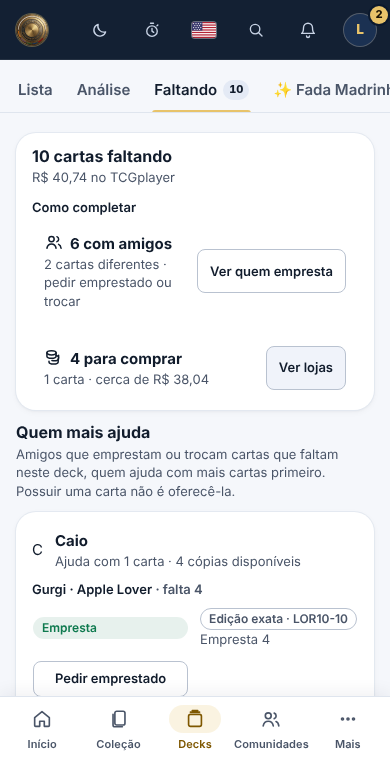
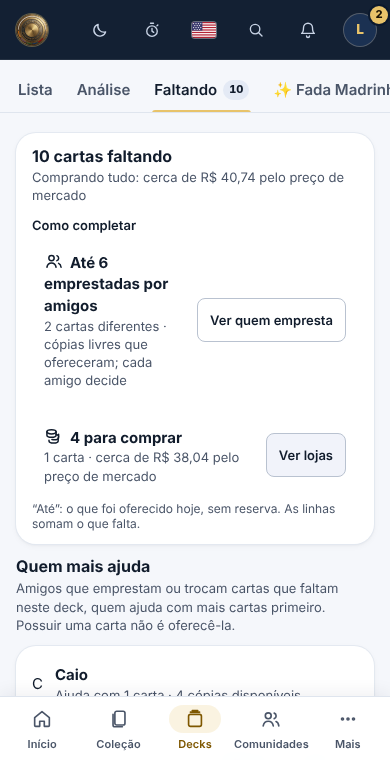
fix(decks): Como completar conta só cópias oferecidas; textos e custos sem exagero
Revisão do Conselho (#246):
- Cada carta divide as cópias que faltam pelo que foi de fato oferecido, nesta ordem:
  empréstimo (por amigo, o maior entre as cópias livres e o anúncio "Empresto",
  sem somar os dois), troca, venda no Mural, e o resto para comprar. "Possui" (tem e
  não ofereceu) não conta. Um amigo com 1 livre de 4 cobre 1, não a carta inteira.
- Linhas "Até N emprestadas por amigos", "Até N por troca", "Até N no Mural" e
  "N para comprar", com nota: o que foi oferecido hoje, sem reserva; as linhas somam
  o que falta. A carta mostra a divisão quando é parcial.
- Troca não é chamada de gratuita: "Empréstimo não tem custo; troca pede cartas suas
  em troca. Cada amigo decide."
- Custo: só das cópias a comprar, pelo preço de mercado, dizendo quantas cartas não
  têm preço; o total do topo vira "Comprando tudo: cerca de …".

Testes: decks.spec.mjs (+1 caso parcial; 2 ajustados). Capturas refeitas.

Claude-Session: https://claude.ai/code/session_01FVbTkUiCCiwGnRgKq7JAgu

diff --git a/site/decks/index.html b/site/decks/index.html
@@ -517,11 +517,16 @@ const CARD_INDEX = {"generated_at":"2026-10-19T12:50:22Z","sets":[{"code":"D100"
     "lowest MYP Cards listing ({d}); without one, {s}": "menor anúncio na MYP Cards ({d}); sem anúncio lá, {s}", "{n} can come from friends": "{n} podem vir de amigos", "{n} can come from friends_1": "1 pode vir de amigos",
     "You have every card for this deck.": "Você tem todas as cartas deste deck.", "Copies lent to friends still count as yours.": "Cópias emprestadas a amigos contam como suas.",
     "Lends": "Empresta", "Trades": "Troca", "Has it": "Possui", "{who} offers it in trade": "{who} oferece em troca", "{n} on the board": "{n} no Mural", "Profile of {who}": "Perfil de {who}",
-    "How to complete it": "Como completar", "With friends": "Com amigos", "Friends lend or trade these. Ask first: it's free.": "Amigos emprestam ou trocam estas. Peça primeiro: é de graça.",
-    "On the board": "No Mural", "Someone sells these on the board.": "Alguém vende estas no Mural.", "To buy": "Para comprar", "No friend has these yet. The stores open in another tab.": "Nenhum amigo tem estas ainda. As lojas abrem em outra aba.",
-    "{n} card": "{n} carta", "{n} with friends": "{n} com amigos", "1 card · ask to borrow or trade": "1 carta · pedir emprestado ou trocar", "{n} different cards · ask to borrow or trade": "{n} cartas diferentes · pedir emprestado ou trocar",
-    "See who lends": "Ver quem empresta", "See cards": "Ver cartas", "{n} on the board": "{n} no Mural", "1 card · someone sells it": "1 carta · alguém vende", "{n} different cards · someone sells them": "{n} cartas diferentes · alguém vende",
-    "{n} to buy": "{n} para comprar", "1 card": "1 carta", "{n} different cards": "{n} cartas diferentes", "about {v}": "cerca de {v}", "See stores": "Ver lojas",
+    "How to complete it": "Como completar", "Buying all of it: about {v} at market price": "Comprando tudo: cerca de {v} pelo preço de mercado", "Friends offered": "Amigos ofereceram", "Lending costs nothing; a trade asks for cards of yours in return. Each friend decides.": "Empréstimo não tem custo; troca pede cartas suas em troca. Cada amigo decide.",
+    "On the board": "No Mural", "For sale on the board, at the price in the listing.": "À venda no Mural, pelo preço do anúncio.", "To buy": "Para comprar", "No one offered these. The stores open in another tab.": "Ninguém ofereceu estas. As lojas abrem em outra aba.",
+    "Up to {n} lent by friends": "Até {n} emprestadas por amigos", "Up to 1 lent by a friend": "Até 1 emprestada por amigo", "free copies they offered; each friend decides": "cópias livres que ofereceram; cada amigo decide", "Up to {n} by trade": "Até {n} por troca", "you give cards in return": "você dá cartas em troca",
+    "Up to {n} on the board": "Até {n} no Mural", "for sale, at the listing's price": "à venda, pelo preço do anúncio", "about {v} at market price": "cerca de {v} pelo preço de mercado", "1 card with no price": "1 carta sem preço", "{n} cards with no price": "{n} cartas sem preço",
+    "“Up to”: what was offered today, not reserved. The rows add up to what is missing.": "“Até”: o que foi oferecido hoje, sem reserva. As linhas somam o que falta.",
+    "up to {n} lent": "até {n} emprestadas", "up to 1 lent": "até 1 emprestada", "up to {n} by trade": "até {n} por troca", "up to {n} on the board": "até {n} no Mural", 
+    
+    "{n} card": "{n} carta", 
+    "See who lends": "Ver quem empresta", "See cards": "Ver cartas", 
+    "{n} to buy": "{n} para comprar", "1 card": "1 carta", "{n} different cards": "{n} cartas diferentes",  "See stores": "Ver lojas",
     "{who} lends": "{who} empresta", "{n} free": "{n} livres", "{n} free_1": "1 livre", "Ask to borrow": "Pedir emprestado", "{who} has it": "{who} tem", "{n} in their collection · they decide": "{n} na coleção · a pessoa decide se empresta", "Show on my public profile": "Mostrar no meu perfil público", "public": "público", "People who aren't your friends see it on your profile and in the Lore Counter, when your profile is public. Friends already see all your decks.": "Quem não é seu amigo vê no seu perfil e no Lore Counter, quando seu perfil é público. Amigos já veem todos os seus decks.", "Asked": "Pedido enviado", "For the deck {d}": "Para o deck {d}", "Request sent. You'll see the answer in Trades.": "Pedido enviado. A resposta aparece em Trocas.", "Too many requests today. Try tomorrow.": "Muitos pedidos hoje. Tente amanhã.", "{who} sells on the board": "{who} vende no Mural", "{v} each": "{v} cada", "See listing": "Ver anúncio",
     "None of your friends has it": "Ninguém dos seus amigos tem",
     "In their collection · they did not offer to lend": "Na coleção · não ofereceu empréstimo", "This friend did not offer to lend this card.": "Este amigo não ofereceu esta carta para empréstimo.",
@@ -1602,11 +1607,9 @@ const CARD_INDEX = {"generated_at":"2026-10-19T12:50:22Z","sets":[{"code":"D100"
   function missingTab(d, m) {
     if (!m.known.length) return emptyBox("decks", Tx("This deck is empty."), Tx("Tap Edit list to add cards."));
     if (!m.missing.length) return emptyBox("collection", Tx("You have every card for this deck."), Tx("Copies lent to friends still count as yours."));
-    let fromFriends = 0;
     const groups = { friends: [], board: [], buy: [] };
     m.missing.forEach(({ c, n }) => {
       const { lend, sell, trade } = offersFor(c), [a, b] = split(c.name), p = priceOf(c);
-      if (lend.length) fromFriends += Math.min(n, lend.reduce((s, l) => s + l.qty, 0));
       const who = (u) => names.get(u) || "—";
       const q = encodeURIComponent(a);
       const offers = [
@@ -1615,36 +1618,53 @@ const CARD_INDEX = {"generated_at":"2026-10-19T12:50:22Z","sets":[{"code":"D100"
         ...sell.slice(0, 3).map((l) => `<div class="list-row flat two" style="min-height:52px"><span class="t"><span>${esc(Tx("{who} sells on the board", { who: who(l.user_id) }))}</span><span class="meta">${l.price_brl != null ? esc(Tx("{v} each", { v: money(+l.price_brl) })) : ""}</span></span><a class="btn small" href="../trades/?tab=board&q=${q}">${Tx("See listing")}</a></div>`),
       ];
       const fl = friendsLend(c);
-      if (fl.length) fromFriends += Math.min(n, fl.filter(lends).reduce((s2, x) => s2 + x.free, 0));
       // Possui: only that the friend has it (printing named), no quantity, no request. Empresta: explicit "empresta"
       // and free copies, with the quantity and the request.
       offers.unshift(...fl.slice(0, 3).map((x) => { const k = `${x.user}|${x.card_id}`, asked = lendAsked.has(k), ok = lends(x);
         const ed = x.card_id === c.id ? "" : ` · ${Tx("Other printing · {id}", { id: x.card_id })}`;
         return `<div class="list-row flat two" style="min-height:52px" data-testid="friend-has" data-state="${ok ? "lend" : "has"}"><span class="t"><span class="fwho">${friendFace(x.user, x.name)}${friendTag(ok ? "lend" : "has")}${esc(Tx("{who} has it", { who: x.name || "—" }))}</span><span class="meta">${esc((ok ? Tx("{n} free", { n: x.free }) : Tx("In their collection · they did not offer to lend")) + ed)}</span></span>${!ok ? "" : asked ? `<a class="btn small ghost" href="../trades/">${Tx("Asked")}</a>` : `<button type="button" class="btn small" data-borrow="${esc(x.user)}" data-bcard="${esc(x.card_id)}" data-bq="${Math.min(n, x.free)}">${Tx("Ask to borrow")}</button>`}</div>`; }));
-      const viaFriends = lend.length || trade.length || fl.some(lends), where = viaFriends ? "friends" : sell.length ? "board" : "buy";
+      // Conselho (#246): count only copies actually offered, never a whole card because one friend has one.
+      // Lending: per friend, the larger of the free copies they offer and their "Empresto" post (not both: the same copies).
+      // "Possui" (has it, did not offer) counts nothing. Each source takes what is still missing after the one before.
+      const lendBy1 = new Map();
+      for (const x of fl) if (lends(x) && friends.has(x.user)) lendBy1.set(x.user, Math.max(lendBy1.get(x.user) || 0, +x.free || 0));
+      for (const l of lend) lendBy1.set(l.user_id, Math.max(lendBy1.get(l.user_id) || 0, +l.qty || 0));
+      const take = (left, offered) => Math.max(0, Math.min(left, offered));
+      const sp = { lend: take(n, [...lendBy1.values()].reduce((t, q) => t + q, 0)) };
+      sp.trade = take(n - sp.lend, trade.reduce((t, l) => t + (+l.qty || 0), 0));
+      sp.board = take(n - sp.lend - sp.trade, sell.reduce((t, l) => t + (+l.qty || 0), 0));
+      sp.buy = n - sp.lend - sp.trade - sp.board;
+      const where = sp.lend + sp.trade ? "friends" : sp.board ? "board" : "buy";
+      const splitLine = sp.buy === n ? "" : [sp.lend ? Tx(sp.lend === 1 ? "up to 1 lent" : "up to {n} lent", { n: sp.lend }) : "", sp.trade ? Tx("up to {n} by trade", { n: sp.trade }) : "", sp.board ? Tx("up to {n} on the board", { n: sp.board }) : "", sp.buy ? Tx("{n} to buy", { n: sp.buy }) : ""].filter(Boolean).join(" · ");
       if (!lend.length && !fl.length && !sell.length && !trade.length) offers.push(`<div class="list-row flat two" style="min-height:44px"><span class="t"><span class="muted" style="font-weight:400">${Tx("None of your friends has it")}</span></span></div>`);
       // buy it: always offered, after friends and the board — the stores open in a new tab, nothing is shared with them
       offers.push(buyLinks(c, n));
-      groups[where].push({ n, value: p != null ? p * n : null, html: `<section class="card miss" data-miss="${esc(c.id)}" data-where="${where}"><div class="row" style="flex-wrap:nowrap;align-items:flex-start;gap:var(--sp-3)">${thumb(c, "md")}<div class="grow" style="min-width:0">
+      groups[where].push({ n, sp, price: p, html: `<section class="card miss" data-miss="${esc(c.id)}" data-where="${where}"><div class="row" style="flex-wrap:nowrap;align-items:flex-start;gap:var(--sp-3)">${thumb(c, "md")}<div class="grow" style="min-width:0">
         <div class="row between" style="flex-wrap:nowrap"><b>${esc(a)}${b ? ` · ${esc(b)}` : ""}</b><span class="tag warn">${esc(Tx("missing {n}", { n }))}</span></div>
         <div class="small muted" style="margin-top:2px">${esc(fromMyp(c) ? "MYP Cards" : priceSrc)} <span class="money">${p != null ? esc(money(p)) : "–"}</span></div>
+        ${splitLine ? `<div class="small" style="margin-top:2px" data-testid="miss-split">${esc(splitLine)}</div>` : ""}
         <div class="list tight divided" style="margin-top:var(--sp-2)">${offers.join("")}</div></div></div></section>` });
     });
-    const count = (g) => g.reduce((t, x) => t + x.n, 0), cardsN = (g) => g.length;
-    const buyValue = groups.buy.reduce((t, x) => t + (x.value || 0), 0);
-    const GROUP = { friends: ["With friends", "Friends lend or trade these. Ask first: it's free."], board: ["On the board", "Someone sells these on the board."], buy: ["To buy", "No friend has these yet. The stores open in another tab."] };
-    const cards = ["friends", "board", "buy"].filter((k) => groups[k].length).map((k) => `<h3 class="miss-group" id="miss-${k}" data-testid="miss-group-${k}">${esc(Tx(GROUP[k][0]))} <span class="muted small">· ${esc(Tx(cardsN(groups[k]) === 1 ? "{n} card" : "{n} cards", { n: cardsN(groups[k]) }))}</span><span class="small muted" style="display:block;font-weight:400">${esc(Tx(GROUP[k][1]))}</span></h3>${groups[k].map((x) => x.html).join("")}`).join("");
-    // one row per way of getting the cards, in the order that costs least: friends, the board, the stores
+    const all = [...groups.friends, ...groups.board, ...groups.buy], sum = (k) => all.reduce((t, x) => t + x.sp[k], 0), cardsWith = (k) => all.filter((x) => x.sp[k] > 0).length;
+    // the cost: only the copies left to buy, at the market price; copies with no price are said, not counted as zero
+    const toBuy = all.filter((x) => x.sp.buy > 0), buyValue = toBuy.reduce((t, x) => t + (x.price != null ? x.price * x.sp.buy : 0), 0), noPrice = toBuy.filter((x) => x.price == null).length;
+    const GROUP = { friends: ["Friends offered", "Lending costs nothing; a trade asks for cards of yours in return. Each friend decides."], board: ["On the board", "For sale on the board, at the price in the listing."], buy: ["To buy", "No one offered these. The stores open in another tab."] };
+    const cards = ["friends", "board", "buy"].filter((k) => groups[k].length).map((k) => `<h3 class="miss-group" id="miss-${k}" data-testid="miss-group-${k}">${esc(Tx(GROUP[k][0]))} <span class="muted small">· ${esc(Tx(groups[k].length === 1 ? "{n} card" : "{n} cards", { n: groups[k].length }))}</span><span class="small muted" style="display:block;font-weight:400">${esc(Tx(GROUP[k][1]))}</span></h3>${groups[k].map((x) => x.html).join("")}`).join("");
+    // one row per source, in the order that costs least; every row counts copies, and together they add up to the heading
     const planRow = (k, ic, title, sub, btn, href) => `<div class="plan-row card inset" style="padding:var(--sp-2) var(--sp-3)" data-testid="plan-${k}"><span class="t" style="min-width:0"><b><i class="ic i-${ic}" style="vertical-align:-3px;margin-right:6px"></i>${esc(title)}</b><span class="small muted" style="display:block">${esc(sub)}</span></span><a class="btn small" href="${href}" data-jump>${esc(btn)}</a></div>`;
+    const cardsTx = (n) => Tx(n === 1 ? "1 card" : "{n} different cards", { n });
     const plan = [
-      groups.friends.length ? planRow("friends", "users", Tx("{n} with friends", { n: count(groups.friends) }), Tx(cardsN(groups.friends) === 1 ? "1 card · ask to borrow or trade" : "{n} different cards · ask to borrow or trade", { n: cardsN(groups.friends) }), Tx(whoHelps(m) ? "See who lends" : "See cards"), whoHelps(m) ? "#who-helps-anchor" : "#miss-friends") : "",
-      groups.board.length ? planRow("board", "trades", Tx("{n} on the board", { n: count(groups.board) }), Tx(cardsN(groups.board) === 1 ? "1 card · someone sells it" : "{n} different cards · someone sells them", { n: cardsN(groups.board) }), Tx("See cards"), "#miss-board") : "",
-      groups.buy.length ? planRow("buy", "coins", Tx("{n} to buy", { n: count(groups.buy) }), [Tx(cardsN(groups.buy) === 1 ? "1 card" : "{n} different cards", { n: cardsN(groups.buy) }), havePrices() && buyValue ? Tx("about {v}", { v: money(buyValue) }) : ""].filter(Boolean).join(" · "), Tx("See stores"), "#miss-buy") : "",
+      sum("lend") ? planRow("lend", "users", Tx(sum("lend") === 1 ? "Up to 1 lent by a friend" : "Up to {n} lent by friends", { n: sum("lend") }), `${cardsTx(cardsWith("lend"))} · ${Tx("free copies they offered; each friend decides")}`, Tx(whoHelps(m) ? "See who lends" : "See cards"), whoHelps(m) ? "#who-helps-anchor" : "#miss-friends") : "",
+      sum("trade") ? planRow("trade", "trades", Tx("Up to {n} by trade", { n: sum("trade") }), `${cardsTx(cardsWith("trade"))} · ${Tx("you give cards in return")}`, Tx("See cards"), "#miss-friends") : "",
+      sum("board") ? planRow("board", "board", Tx("Up to {n} on the board", { n: sum("board") }), `${cardsTx(cardsWith("board"))} · ${Tx("for sale, at the listing's price")}`, Tx("See cards"), "#miss-board") : "",
+      sum("buy") ? planRow("buy", "coins", Tx("{n} to buy", { n: sum("buy") }), [cardsTx(cardsWith("buy")), havePrices() && buyValue ? Tx("about {v} at market price", { v: money(buyValue) }) : "", noPrice ? Tx(noPrice === 1 ? "1 card with no price" : "{n} cards with no price", { n: noPrice }) : ""].filter(Boolean).join(" · "), Tx("See stores"), "#miss-buy") : "",
     ].join("");
+    const offeredNote = sum("lend") + sum("trade") + sum("board") ? `<p class="micro muted" style="margin:0" data-testid="plan-note">${esc(Tx("“Up to”: what was offered today, not reserved. The rows add up to what is missing."))}</p>` : "";
     const head = [Tx(m.missingN === 1 ? "{n} card missing" : "{n} cards missing", { n: m.missingN })];
-    const sub = [!havePrices() ? "" : BR ? Tx("{v} estimated (MYP Cards, else TCGplayer)", { v: money(m.missingValue) }) : Tx("{v} at {s}", { v: money(m.missingValue), s: priceSrc }), ""].filter(Boolean).join(" · ");   // the plan rows below add up to the heading
+    // the whole-missing value is what buying everything would cost; the plan says what is actually left to buy
+    const sub = !havePrices() ? "" : Tx("Buying all of it: about {v} at market price", { v: money(m.missingValue) });
     return `<section class="card" data-testid="missing-summary" style="padding:var(--sp-3) var(--sp-4)"><b style="font-size:var(--fs-h3, 1.125rem)">${esc(head[0])}</b><span class="small muted" style="display:block">${esc(sub)}</span>
-        <div class="plan-rows" data-testid="completion-plan"><span class="small" style="font-weight:600">${Tx("How to complete it")}</span>${plan}</div></section>
+        <div class="plan-rows" data-testid="completion-plan"><span class="small" style="font-weight:600">${Tx("How to complete it")}</span>${plan}${offeredNote}</div></section>
       <span id="who-helps-anchor"></span>${whoHelps(m)}
       <div class="stack">${cards}</div>
       <div class="card inset miss-export" data-testid="miss-export" style="margin:var(--sp-3) 0;padding:var(--sp-3)"><div class="row between" style="gap:var(--sp-2);flex-wrap:wrap">

diff --git a/src/site/decks/decks.template.html b/src/site/decks/decks.template.html
@@ -179,11 +179,16 @@ textarea.paste { width: 100%; min-height: 200px; font: inherit; font-size: var(-
     "lowest MYP Cards listing ({d}); without one, {s}": "menor anúncio na MYP Cards ({d}); sem anúncio lá, {s}", "{n} can come from friends": "{n} podem vir de amigos", "{n} can come from friends_1": "1 pode vir de amigos",
     "You have every card for this deck.": "Você tem todas as cartas deste deck.", "Copies lent to friends still count as yours.": "Cópias emprestadas a amigos contam como suas.",
     "Lends": "Empresta", "Trades": "Troca", "Has it": "Possui", "{who} offers it in trade": "{who} oferece em troca", "{n} on the board": "{n} no Mural", "Profile of {who}": "Perfil de {who}",
-    "How to complete it": "Como completar", "With friends": "Com amigos", "Friends lend or trade these. Ask first: it's free.": "Amigos emprestam ou trocam estas. Peça primeiro: é de graça.",
-    "On the board": "No Mural", "Someone sells these on the board.": "Alguém vende estas no Mural.", "To buy": "Para comprar", "No friend has these yet. The stores open in another tab.": "Nenhum amigo tem estas ainda. As lojas abrem em outra aba.",
-    "{n} card": "{n} carta", "{n} with friends": "{n} com amigos", "1 card · ask to borrow or trade": "1 carta · pedir emprestado ou trocar", "{n} different cards · ask to borrow or trade": "{n} cartas diferentes · pedir emprestado ou trocar",
-    "See who lends": "Ver quem empresta", "See cards": "Ver cartas", "{n} on the board": "{n} no Mural", "1 card · someone sells it": "1 carta · alguém vende", "{n} different cards · someone sells them": "{n} cartas diferentes · alguém vende",
-    "{n} to buy": "{n} para comprar", "1 card": "1 carta", "{n} different cards": "{n} cartas diferentes", "about {v}": "cerca de {v}", "See stores": "Ver lojas",
+    "How to complete it": "Como completar", "Buying all of it: about {v} at market price": "Comprando tudo: cerca de {v} pelo preço de mercado", "Friends offered": "Amigos ofereceram", "Lending costs nothing; a trade asks for cards of yours in return. Each friend decides.": "Empréstimo não tem custo; troca pede cartas suas em troca. Cada amigo decide.",
+    "On the board": "No Mural", "For sale on the board, at the price in the listing.": "À venda no Mural, pelo preço do anúncio.", "To buy": "Para comprar", "No one offered these. The stores open in another tab.": "Ninguém ofereceu estas. As lojas abrem em outra aba.",
+    "Up to {n} lent by friends": "Até {n} emprestadas por amigos", "Up to 1 lent by a friend": "Até 1 emprestada por amigo", "free copies they offered; each friend decides": "cópias livres que ofereceram; cada amigo decide", "Up to {n} by trade": "Até {n} por troca", "you give cards in return": "você dá cartas em troca",
+    "Up to {n} on the board": "Até {n} no Mural", "for sale, at the listing's price": "à venda, pelo preço do anúncio", "about {v} at market price": "cerca de {v} pelo preço de mercado", "1 card with no price": "1 carta sem preço", "{n} cards with no price": "{n} cartas sem preço",
+    "“Up to”: what was offered today, not reserved. The rows add up to what is missing.": "“Até”: o que foi oferecido hoje, sem reserva. As linhas somam o que falta.",
+    "up to {n} lent": "até {n} emprestadas", "up to 1 lent": "até 1 emprestada", "up to {n} by trade": "até {n} por troca", "up to {n} on the board": "até {n} no Mural", 
+    
+    "{n} card": "{n} carta", 
+    "See who lends": "Ver quem empresta", "See cards": "Ver cartas", 
+    "{n} to buy": "{n} para comprar", "1 card": "1 carta", "{n} different cards": "{n} cartas diferentes",  "See stores": "Ver lojas",
     "{who} lends": "{who} empresta", "{n} free": "{n} livres", "{n} free_1": "1 livre", "Ask to borrow": "Pedir emprestado", "{who} has it": "{who} tem", "{n} in their collection · they decide": "{n} na coleção · a pessoa decide se empresta", "Show on my public profile": "Mostrar no meu perfil público", "public": "público", "People who aren't your friends see it on your profile and in the Lore Counter, when your profile is public. Friends already see all your decks.": "Quem não é seu amigo vê no seu perfil e no Lore Counter, quando seu perfil é público. Amigos já veem todos os seus decks.", "Asked": "Pedido enviado", "For the deck {d}": "Para o deck {d}", "Request sent. You'll see the answer in Trades.": "Pedido enviado. A resposta aparece em Trocas.", "Too many requests today. Try tomorrow.": "Muitos pedidos hoje. Tente amanhã.", "{who} sells on the board": "{who} vende no Mural", "{v} each": "{v} cada", "See listing": "Ver anúncio",
     "None of your friends has it": "Ninguém dos seus amigos tem",
     "In their collection · they did not offer to lend": "Na coleção · não ofereceu empréstimo", "This friend did not offer to lend this card.": "Este amigo não ofereceu esta carta para empréstimo.",
@@ -1199,11 +1204,9 @@ textarea.paste { width: 100%; min-height: 200px; font: inherit; font-size: var(-
   function missingTab(d, m) {
     if (!m.known.length) return emptyBox("decks", Tx("This deck is empty."), Tx("Tap Edit list to add cards."));
     if (!m.missing.length) return emptyBox("collection", Tx("You have every card for this deck."), Tx("Copies lent to friends still count as yours."));
-    let fromFriends = 0;
     const groups = { friends: [], board: [], buy: [] };
     m.missing.forEach(({ c, n }) => {
       const { lend, sell, trade } = offersFor(c), [a, b] = split(c.name), p = priceOf(c);
-      if (lend.length) fromFriends += Math.min(n, lend.reduce((s, l) => s + l.qty, 0));
       const who = (u) => names.get(u) || "—";
       const q = encodeURIComponent(a);
       const offers = [
@@ -1212,36 +1215,53 @@ textarea.paste { width: 100%; min-height: 200px; font: inherit; font-size: var(-
         ...sell.slice(0, 3).map((l) => `<div class="list-row flat two" style="min-height:52px"><span class="t"><span>${esc(Tx("{who} sells on the board", { who: who(l.user_id) }))}</span><span class="meta">${l.price_brl != null ? esc(Tx("{v} each", { v: money(+l.price_brl) })) : ""}</span></span><a class="btn small" href="../trades/?tab=board&q=${q}">${Tx("See listing")}</a></div>`),
       ];
       const fl = friendsLend(c);
-      if (fl.length) fromFriends += Math.min(n, fl.filter(lends).reduce((s2, x) => s2 + x.free, 0));
       // Possui: only that the friend has it (printing named), no quantity, no request. Empresta: explicit "empresta"
       // and free copies, with the quantity and the request.
       offers.unshift(...fl.slice(0, 3).map((x) => { const k = `${x.user}|${x.card_id}`, asked = lendAsked.has(k), ok = lends(x);
         const ed = x.card_id === c.id ? "" : ` · ${Tx("Other printing · {id}", { id: x.card_id })}`;
         return `<div class="list-row flat two" style="min-height:52px" data-testid="friend-has" data-state="${ok ? "lend" : "has"}"><span class="t"><span class="fwho">${friendFace(x.user, x.name)}${friendTag(ok ? "lend" : "has")}${esc(Tx("{who} has it", { who: x.name || "—" }))}</span><span class="meta">${esc((ok ? Tx("{n} free", { n: x.free }) : Tx("In their collection · they did not offer to lend")) + ed)}</span></span>${!ok ? "" : asked ? `<a class="btn small ghost" href="../trades/">${Tx("Asked")}</a>` : `<button type="button" class="btn small" data-borrow="${esc(x.user)}" data-bcard="${esc(x.card_id)}" data-bq="${Math.min(n, x.free)}">${Tx("Ask to borrow")}</button>`}</div>`; }));
-      const viaFriends = lend.length || trade.length || fl.some(lends), where = viaFriends ? "friends" : sell.length ? "board" : "buy";
+      // Conselho (#246): count only copies actually offered, never a whole card because one friend has one.
+      // Lending: per friend, the larger of the free copies they offer and their "Empresto" post (not both: the same copies).
+      // "Possui" (has it, did not offer) counts nothing. Each source takes what is still missing after the one before.
+      const lendBy1 = new Map();
+      for (const x of fl) if (lends(x) && friends.has(x.user)) lendBy1.set(x.user, Math.max(lendBy1.get(x.user) || 0, +x.free || 0));
+      for (const l of lend) lendBy1.set(l.user_id, Math.max(lendBy1.get(l.user_id) || 0, +l.qty || 0));
+      const take = (left, offered) => Math.max(0, Math.min(left, offered));
+      const sp = { lend: take(n, [...lendBy1.values()].reduce((t, q) => t + q, 0)) };
+      sp.trade = take(n - sp.lend, trade.reduce((t, l) => t + (+l.qty || 0), 0));
+      sp.board = take(n - sp.lend - sp.trade, sell.reduce((t, l) => t + (+l.qty || 0), 0));
+      sp.buy = n - sp.lend - sp.trade - sp.board;
+      const where = sp.lend + sp.trade ? "friends" : sp.board ? "board" : "buy";
+      const splitLine = sp.buy === n ? "" : [sp.lend ? Tx(sp.lend === 1 ? "up to 1 lent" : "up to {n} lent", { n: sp.lend }) : "", sp.trade ? Tx("up to {n} by trade", { n: sp.trade }) : "", sp.board ? Tx("up to {n} on the board", { n: sp.board }) : "", sp.buy ? Tx("{n} to buy", { n: sp.buy }) : ""].filter(Boolean).join(" · ");
       if (!lend.length && !fl.length && !sell.length && !trade.length) offers.push(`<div class="list-row flat two" style="min-height:44px"><span class="t"><span class="muted" style="font-weight:400">${Tx("None of your friends has it")}</span></span></div>`);
       // buy it: always offered, after friends and the board — the stores open in a new tab, nothing is shared with them
       offers.push(buyLinks(c, n));
-      groups[where].push({ n, value: p != null ? p * n : null, html: `<section class="card miss" data-miss="${esc(c.id)}" data-where="${where}"><div class="row" style="flex-wrap:nowrap;align-items:flex-start;gap:var(--sp-3)">${thumb(c, "md")}<div class="grow" style="min-width:0">
+      groups[where].push({ n, sp, price: p, html: `<section class="card miss" data-miss="${esc(c.id)}" data-where="${where}"><div class="row" style="flex-wrap:nowrap;align-items:flex-start;gap:var(--sp-3)">${thumb(c, "md")}<div class="grow" style="min-width:0">
         <div class="row between" style="flex-wrap:nowrap"><b>${esc(a)}${b ? ` · ${esc(b)}` : ""}</b><span class="tag warn">${esc(Tx("missing {n}", { n }))}</span></div>
         <div class="small muted" style="margin-top:2px">${esc(fromMyp(c) ? "MYP Cards" : priceSrc)} <span class="money">${p != null ? esc(money(p)) : "–"}</span></div>
+        ${splitLine ? `<div class="small" style="margin-top:2px" data-testid="miss-split">${esc(splitLine)}</div>` : ""}
         <div class="list tight divided" style="margin-top:var(--sp-2)">${offers.join("")}</div></div></div></section>` });
     });
-    const count = (g) => g.reduce((t, x) => t + x.n, 0), cardsN = (g) => g.length;
-    const buyValue = groups.buy.reduce((t, x) => t + (x.value || 0), 0);
-    const GROUP = { friends: ["With friends", "Friends lend or trade these. Ask first: it's free."], board: ["On the board", "Someone sells these on the board."], buy: ["To buy", "No friend has these yet. The stores open in another tab."] };
-    const cards = ["friends", "board", "buy"].filter((k) => groups[k].length).map((k) => `<h3 class="miss-group" id="miss-${k}" data-testid="miss-group-${k}">${esc(Tx(GROUP[k][0]))} <span class="muted small">· ${esc(Tx(cardsN(groups[k]) === 1 ? "{n} card" : "{n} cards", { n: cardsN(groups[k]) }))}</span><span class="small muted" style="display:block;font-weight:400">${esc(Tx(GROUP[k][1]))}</span></h3>${groups[k].map((x) => x.html).join("")}`).join("");
-    // one row per way of getting the cards, in the order that costs least: friends, the board, the stores
+    const all = [...groups.friends, ...groups.board, ...groups.buy], sum = (k) => all.reduce((t, x) => t + x.sp[k], 0), cardsWith = (k) => all.filter((x) => x.sp[k] > 0).length;
+    // the cost: only the copies left to buy, at the market price; copies with no price are said, not counted as zero
+    const toBuy = all.filter((x) => x.sp.buy > 0), buyValue = toBuy.reduce((t, x) => t + (x.price != null ? x.price * x.sp.buy : 0), 0), noPrice = toBuy.filter((x) => x.price == null).length;
+    const GROUP = { friends: ["Friends offered", "Lending costs nothing; a trade asks for cards of yours in return. Each friend decides."], board: ["On the board", "For sale on the board, at the price in the listing."], buy: ["To buy", "No one offered these. The stores open in another tab."] };
+    const cards = ["friends", "board", "buy"].filter((k) => groups[k].length).map((k) => `<h3 class="miss-group" id="miss-${k}" data-testid="miss-group-${k}">${esc(Tx(GROUP[k][0]))} <span class="muted small">· ${esc(Tx(groups[k].length === 1 ? "{n} card" : "{n} cards", { n: groups[k].length }))}</span><span class="small muted" style="display:block;font-weight:400">${esc(Tx(GROUP[k][1]))}</span></h3>${groups[k].map((x) => x.html).join("")}`).join("");
+    // one row per source, in the order that costs least; every row counts copies, and together they add up to the heading
     const planRow = (k, ic, title, sub, btn, href) => `<div class="plan-row card inset" style="padding:var(--sp-2) var(--sp-3)" data-testid="plan-${k}"><span class="t" style="min-width:0"><b><i class="ic i-${ic}" style="vertical-align:-3px;margin-right:6px"></i>${esc(title)}</b><span class="small muted" style="display:block">${esc(sub)}</span></span><a class="btn small" href="${href}" data-jump>${esc(btn)}</a></div>`;
+    const cardsTx = (n) => Tx(n === 1 ? "1 card" : "{n} different cards", { n });
     const plan = [
-      groups.friends.length ? planRow("friends", "users", Tx("{n} with friends", { n: count(groups.friends) }), Tx(cardsN(groups.friends) === 1 ? "1 card · ask to borrow or trade" : "{n} different cards · ask to borrow or trade", { n: cardsN(groups.friends) }), Tx(whoHelps(m) ? "See who lends" : "See cards"), whoHelps(m) ? "#who-helps-anchor" : "#miss-friends") : "",
-      groups.board.length ? planRow("board", "trades", Tx("{n} on the board", { n: count(groups.board) }), Tx(cardsN(groups.board) === 1 ? "1 card · someone sells it" : "{n} different cards · someone sells them", { n: cardsN(groups.board) }), Tx("See cards"), "#miss-board") : "",
-      groups.buy.length ? planRow("buy", "coins", Tx("{n} to buy", { n: count(groups.buy) }), [Tx(cardsN(groups.buy) === 1 ? "1 card" : "{n} different cards", { n: cardsN(groups.buy) }), havePrices() && buyValue ? Tx("about {v}", { v: money(buyValue) }) : ""].filter(Boolean).join(" · "), Tx("See stores"), "#miss-buy") : "",
+      sum("lend") ? planRow("lend", "users", Tx(sum("lend") === 1 ? "Up to 1 lent by a friend" : "Up to {n} lent by friends", { n: sum("lend") }), `${cardsTx(cardsWith("lend"))} · ${Tx("free copies they offered; each friend decides")}`, Tx(whoHelps(m) ? "See who lends" : "See cards"), whoHelps(m) ? "#who-helps-anchor" : "#miss-friends") : "",
+      sum("trade") ? planRow("trade", "trades", Tx("Up to {n} by trade", { n: sum("trade") }), `${cardsTx(cardsWith("trade"))} · ${Tx("you give cards in return")}`, Tx("See cards"), "#miss-friends") : "",
+      sum("board") ? planRow("board", "board", Tx("Up to {n} on the board", { n: sum("board") }), `${cardsTx(cardsWith("board"))} · ${Tx("for sale, at the listing's price")}`, Tx("See cards"), "#miss-board") : "",
+      sum("buy") ? planRow("buy", "coins", Tx("{n} to buy", { n: sum("buy") }), [cardsTx(cardsWith("buy")), havePrices() && buyValue ? Tx("about {v} at market price", { v: money(buyValue) }) : "", noPrice ? Tx(noPrice === 1 ? "1 card with no price" : "{n} cards with no price", { n: noPrice }) : ""].filter(Boolean).join(" · "), Tx("See stores"), "#miss-buy") : "",
     ].join("");
+    const offeredNote = sum("lend") + sum("trade") + sum("board") ? `<p class="micro muted" style="margin:0" data-testid="plan-note">${esc(Tx("“Up to”: what was offered today, not reserved. The rows add up to what is missing."))}</p>` : "";
     const head = [Tx(m.missingN === 1 ? "{n} card missing" : "{n} cards missing", { n: m.missingN })];
-    const sub = [!havePrices() ? "" : BR ? Tx("{v} estimated (MYP Cards, else TCGplayer)", { v: money(m.missingValue) }) : Tx("{v} at {s}", { v: money(m.missingValue), s: priceSrc }), ""].filter(Boolean).join(" · ");   // the plan rows below add up to the heading
+    // the whole-missing value is what buying everything would cost; the plan says what is actually left to buy
+    const sub = !havePrices() ? "" : Tx("Buying all of it: about {v} at market price", { v: money(m.missingValue) });
     return `<section class="card" data-testid="missing-summary" style="padding:var(--sp-3) var(--sp-4)"><b style="font-size:var(--fs-h3, 1.125rem)">${esc(head[0])}</b><span class="small muted" style="display:block">${esc(sub)}</span>
-        <div class="plan-rows" data-testid="completion-plan"><span class="small" style="font-weight:600">${Tx("How to complete it")}</span>${plan}</div></section>
+        <div class="plan-rows" data-testid="completion-plan"><span class="small" style="font-weight:600">${Tx("How to complete it")}</span>${plan}${offeredNote}</div></section>
       <span id="who-helps-anchor"></span>${whoHelps(m)}
       <div class="stack">${cards}</div>
       <div class="card inset miss-export" data-testid="miss-export" style="margin:var(--sp-3) 0;padding:var(--sp-3)"><div class="row between" style="gap:var(--sp-2);flex-wrap:wrap">
